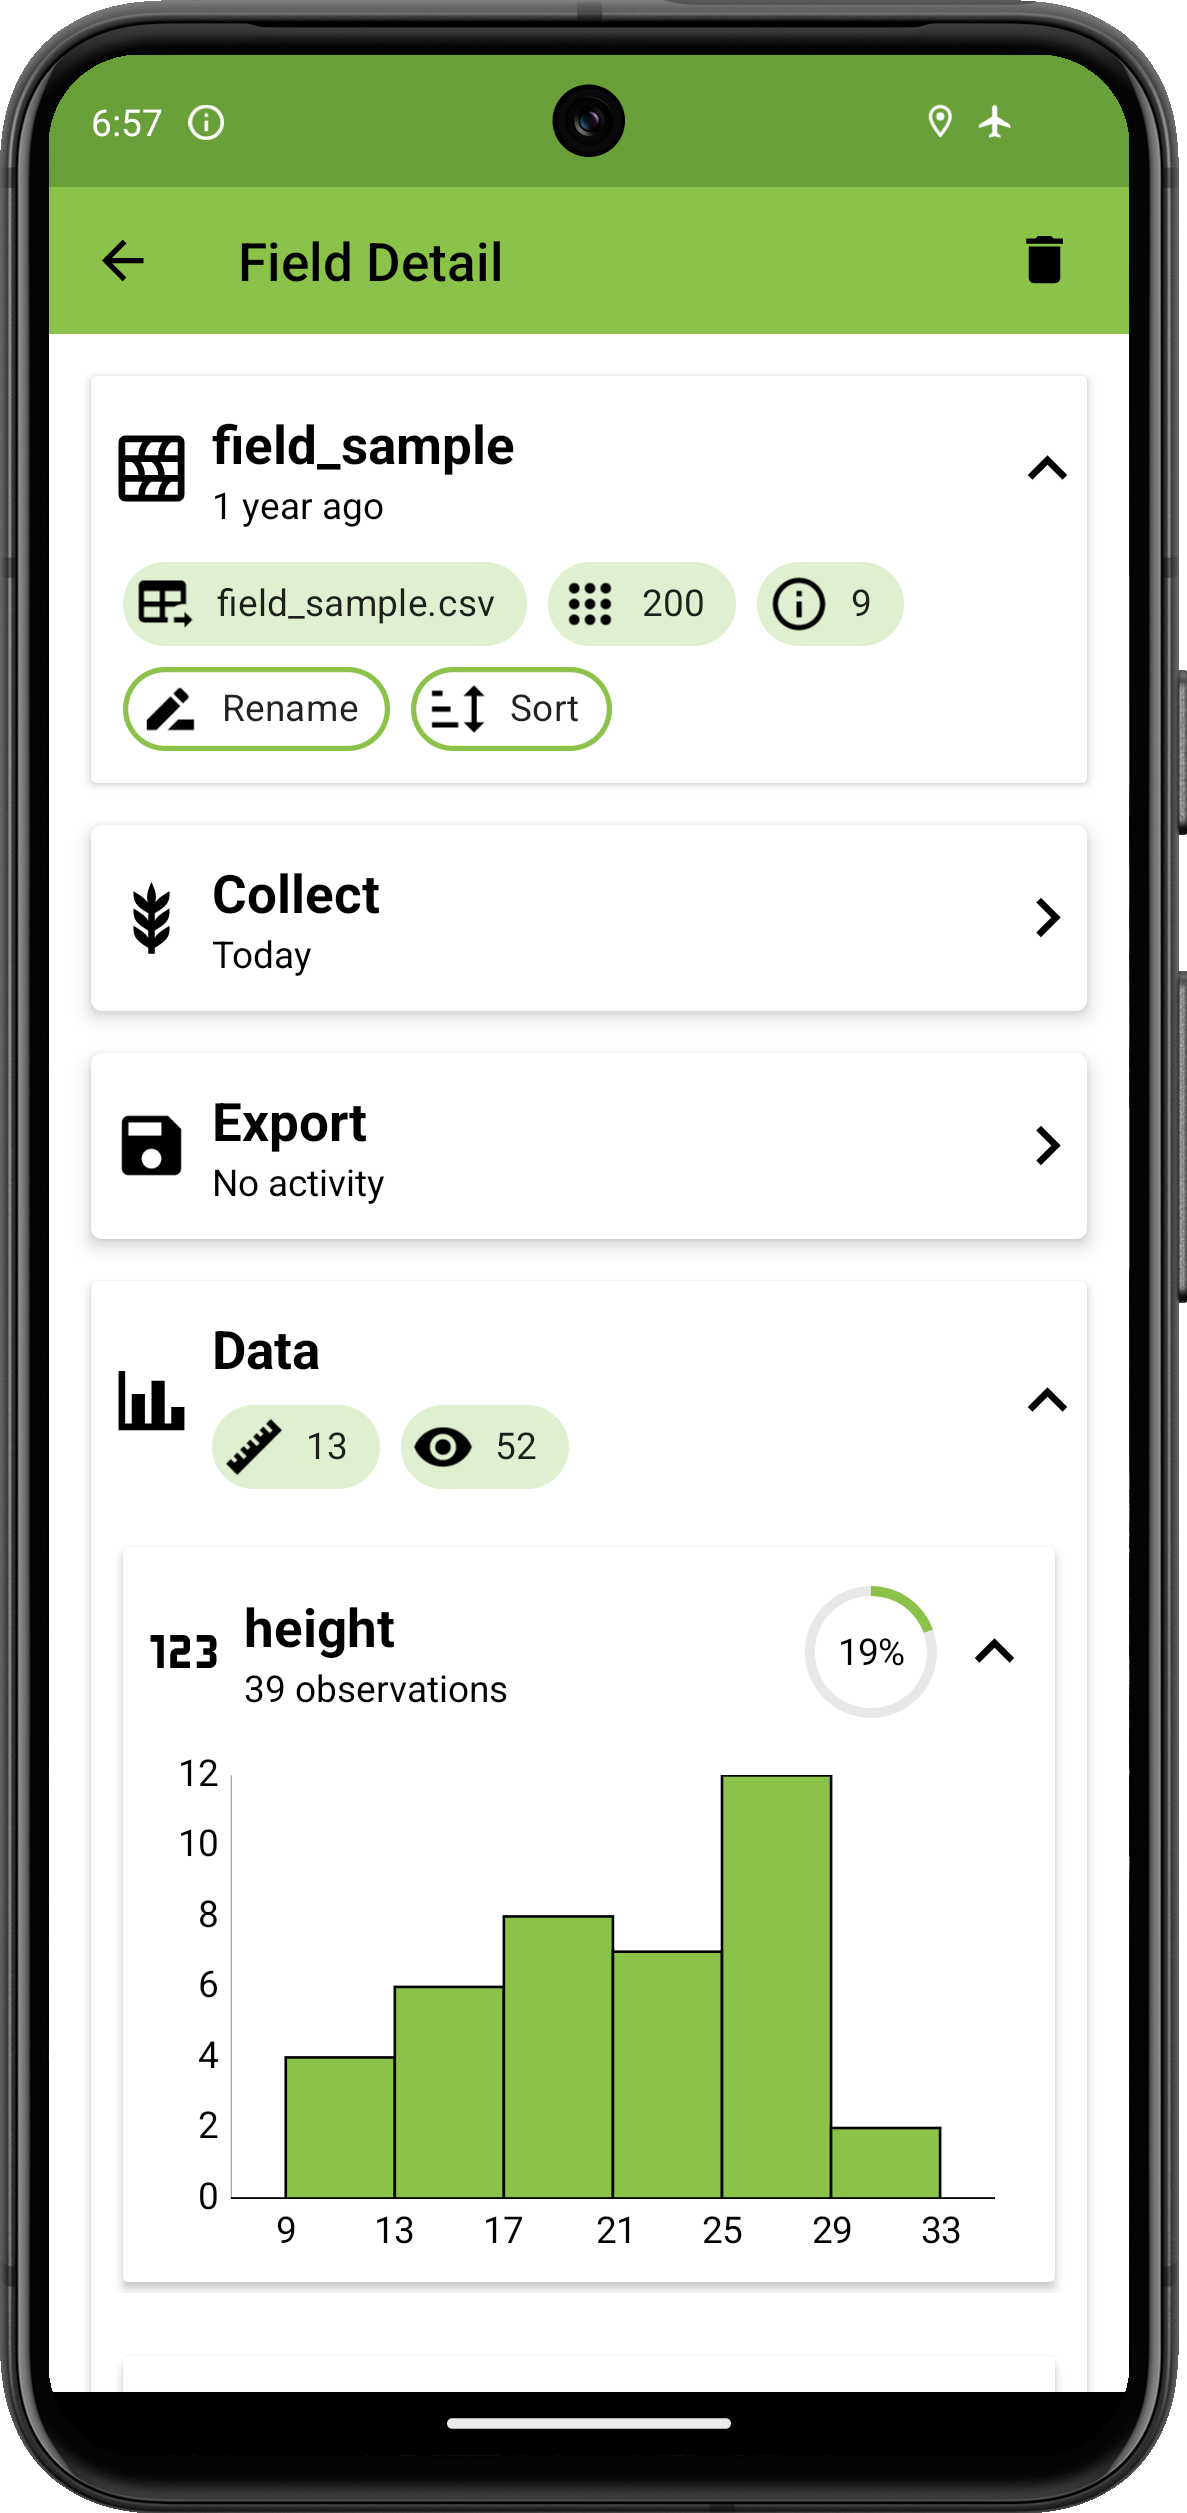
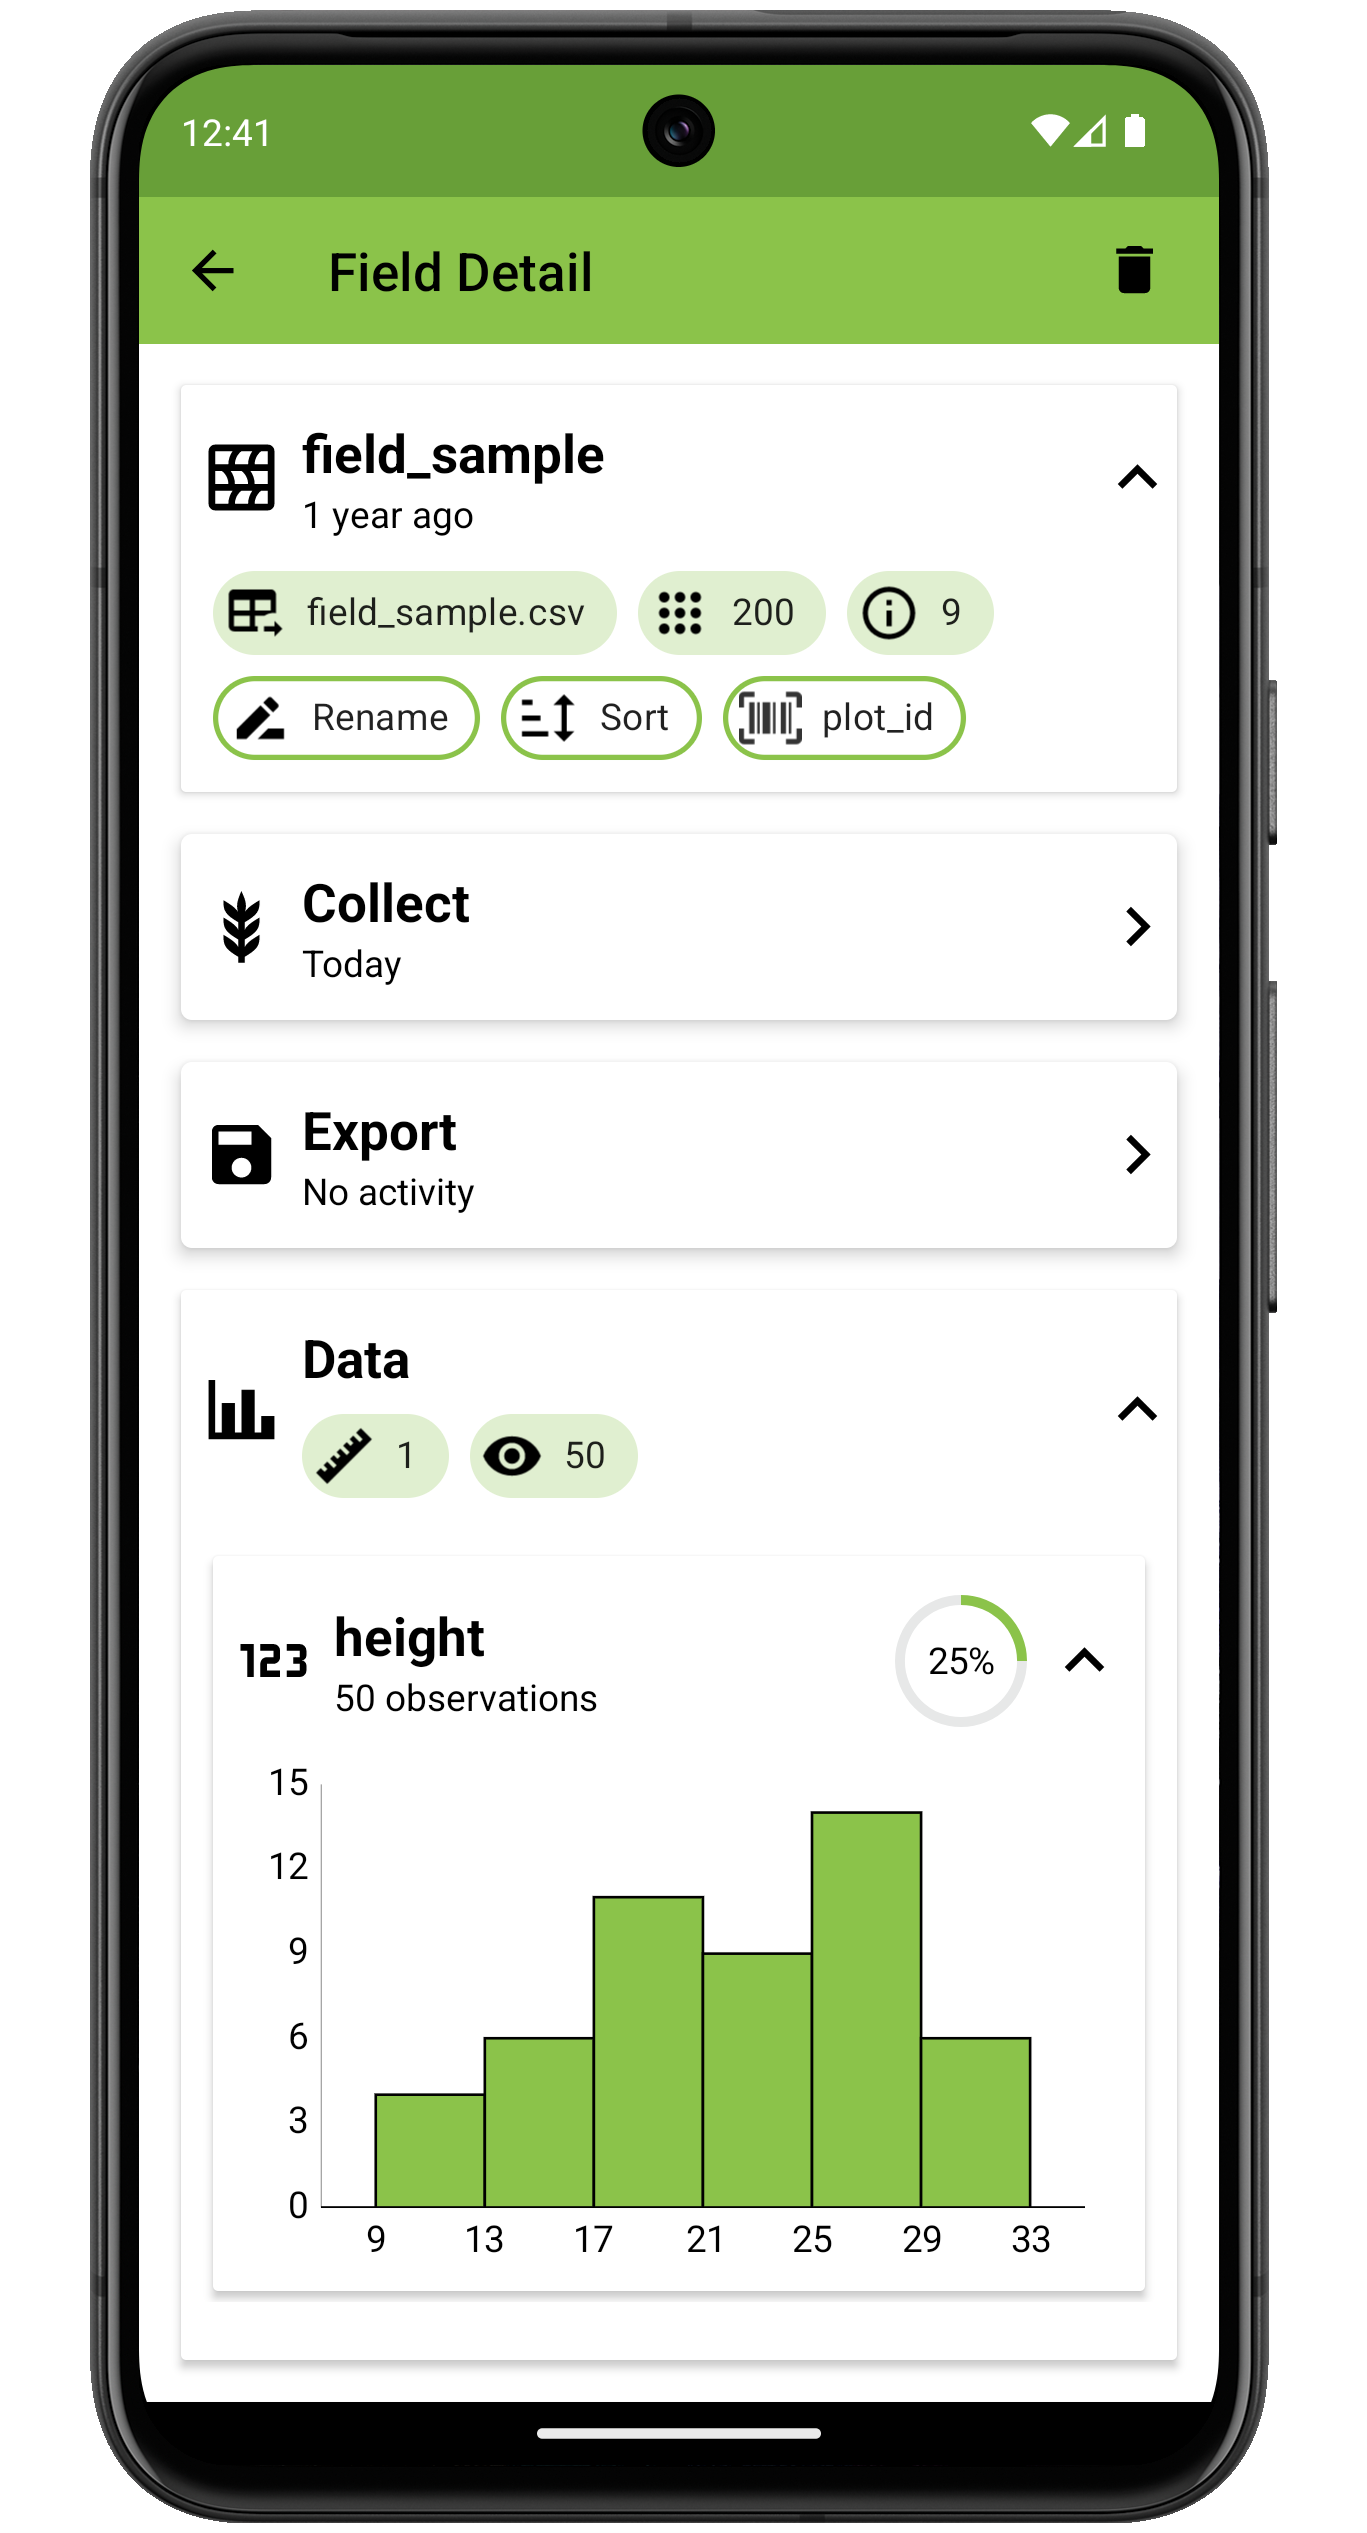
update fields for 6.1

diff --git a/docs/fields.md b/docs/fields.md
@@ -23,17 +23,14 @@ Any other part of the field list item can be pressed to open the field details v
 
 When importing a file, each row of the file reprents an `entry`.
 
-Each entry within a field must have the following:
-
- - A `unique identifier` is used to associate data with the specific entry.
-It must be unique across all of your fields.
+Each entry within a field must have a `unique identifier`. The `unique identifier` is used to associate data with the specific entry. It must be unique across all of your fields.
 The sample field import file shown below contains a unique identifier called **plot_id** (highlighted in red).
- - A `primary identifier`, and a `secondary identifier`.
-These columns will remain visible while advancing through the field's entries, and can be whatever makes the most sense for your experiment.
-Common choices are row/plot, range/plot, rep/plot, etc.
-The sample field import file contains primary and secondary unique identifiers called **row** and **plot** (highlighted in blue).
 
-Additional information such as variety name, pedigree, or treatments is optional, but can be included and viewed in the InfoBars or in the Summary dialog on the Collect screen.
+Any number of additional columns can be included to provide contextual information on the collect screen. Values from two additional columns can be displayed as the primary and secondary id between the entry navigation arrows, and any number of additional columns can be displayed in the infobar section (default is three infobars). Details of how to customize these choices and use the primary and secondary ids for quick-go-to are documented in <img class="icon" src="_static/icons/home/barley.png"> [Collect](collect.md).
+
+Examples of useful columns for navigation include layout numbers like plot_number, row, column, rep, or block, and sorting information like zigzag_order or serpentine_order. The sample field import file contains columns called **row** and **plot** (highlighted in blue) which are used as the primary and secondary identifiers in this documentation.
+
+Other useful context columns like variety_name, pedigree, or treatment are optional, but can be included and viewed in the InfoBars or in the Summary dialog on the Collect screen.
 
 <figure class="image">
   <img class="screenshot" src="_static/images/fields/fields_import_format.png" width="900px"> 
@@ -71,7 +68,8 @@ Only `.csv`, `.xls`, or `.xlsx` files will appear in the import dialog.
 
 !> Filenames and column headers must exclude the special characters: `/ ? < > * | "`
 
-Once a file has been selected, the dropdown menus are used to select columns that correspond to Field Book's required columns.
+Once a file has been selected, the dropdown menu is used to select which column from the file should be used as the `unique_identifier`.
+
 Pressing **Import** will complete the import process.
 
 #### Cloud storage
@@ -145,7 +143,7 @@ A confirmation dialog message will be displayed prior to field deletion.
 </figure>
 
 The top card includes metadata about the field (import source, entry count, attribute count).
-**Renaming** fields will change the name displayed for the field throughout the app. **Sorting** displays a dialog to modify the entry order.
+**Renaming** fields will change the name displayed for the field throughout the app. **Sorting** displays a dialog to modify the entry order. <img class="icon" src="_static/icons/fields/barcode-scan.png"> **Search ID** displays a dialog to choose which unique attribute a barcode search will check against (default is the unique identifer selected on import).
 
 The sort dialog is populated by pressing the <img class="icon" src="_static/icons/fields/plus.png"> icon, and selecting from the list of available columns.
 Column priority for sorting can be modified by using using the <img class="icon" src="_static/icons/traits/reorder-horizontal.png"> icon to drag and reorder them.
